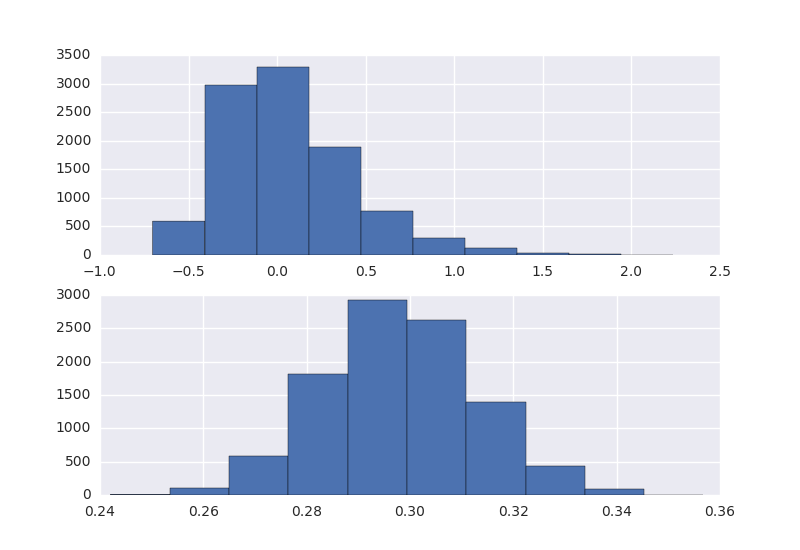
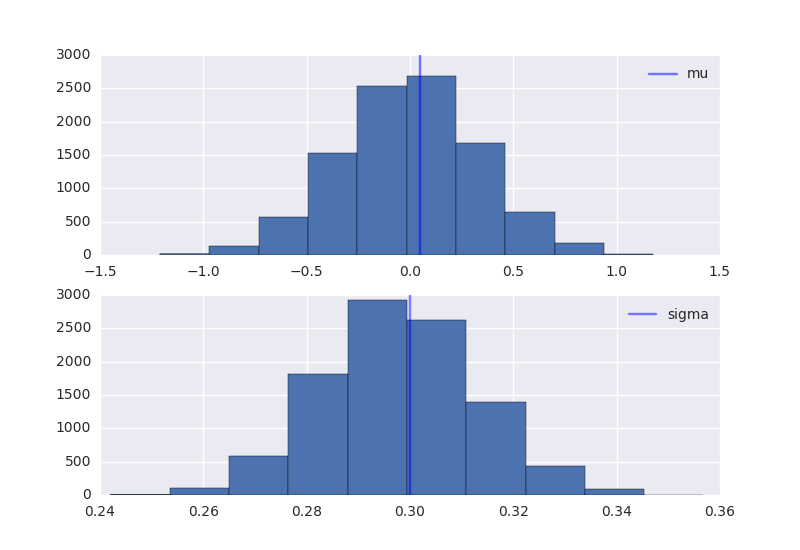
1. Added vertical mu and sigma lines. 2. Corrected annualise mu simulation calculation to use log returns.

diff --git a/python/prices/generate_charts.py b/python/prices/generate_charts.py
@@ -43,13 +43,17 @@ def run_multiple_simulations(simulation_count, periods, start_price, mu,
         prices = bm.generate_gbm_prices(periods, start_price, mu, sigma,
                                          delta)
         returns = calculate_log_returns(prices)
-        mus.append((1.0+returns.mean())**annualised_days - 1.0)
+        mus.append(returns.mean() * annualised_days)
         sigmas.append(returns.std() * math.sqrt(annualised_days))
 
     plt.subplot(211)
     plt.hist(mus)
+    plt.axvline(x=mu, alpha=0.5, label='mu')
+    plt.legend()
     plt.subplot(212)
     plt.hist(sigmas)
+    plt.axvline(x=sigma, alpha=0.5, label='sigma')
+    plt.legend()
     plt.show()
 
 
